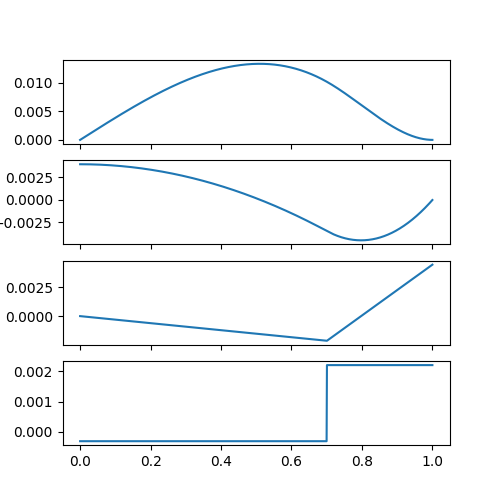
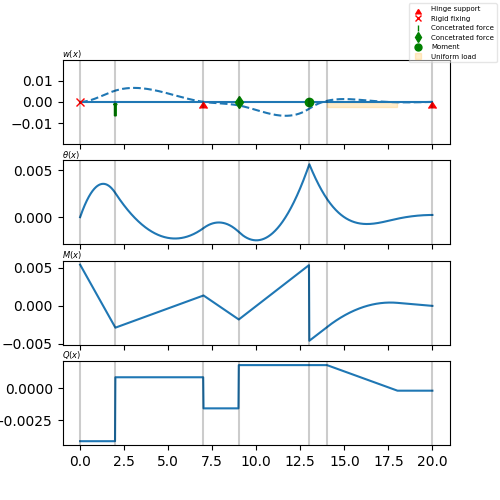
Make cool graphics and fix some bugs

diff --git a/scripts/graphics.py b/scripts/graphics.py
@@ -1,38 +1,117 @@
 import matplotlib.pyplot as plt
+import matplotlib.lines as mlines
 import numpy as np
 import sys
 
 
-def show():
+def make_markers(axe, terms, y, balk_size):
+    for term in terms:
+        if term[0] == "R":
+            axe.plot(term[1], 0, marker=6, color='red')
+        elif term[0] == "Z":
+            axe.plot(term[1], 0, marker="x", color='red')
+        elif term[0] == "P":
+            sign = 1 if term[2] > 0 else -1
+            length = (np.max(y) - np.min(y)) / 2
+            axe.arrow(term[1], length * (-sign), 0, length * sign, width=balk_size / 200,
+                      head_width=balk_size / 100, head_length=length/5, length_includes_head=True, color='green')
+        elif term[0] == "M":
+            axe.plot(term[1], 0, marker="o", color='green')
+        elif term[0] == "K":
+            axe.plot(term[1], 0, marker="d", color='green')
+        elif term[0] == "Q":
+            sign = 1 if term[3] > 0 else -1
+            axe.fill_between(np.array([term[1], term[2]]), np.ones(
+                shape=2) * (np.max(y) - np.min(y)) * sign / 5, 0, facecolor="orange", color='orange', alpha=0.2)
+
+
+def make_vertical_lines(axes, terms, balk_size):
+    for term in terms:
+        for axe in axes:
+            axe.axvline(term[1], c='k', alpha=0.1)
+
+
+def show(balk_size, segment_length, E, J, terms):
     with open("outputs/out1.txt", "r") as f1, \
             open("outputs/out2.txt", "r") as f2, \
             open("outputs/out3.txt", "r") as f3, \
             open("outputs/out4.txt", "r") as f4:
         fig, axe = plt.subplots(4, 1, sharex=True, figsize=(5, 5))
-
         y = []
         for num in f1:
             y.append(float(num))
-        axe[0].plot(np.linspace(0, 1, len(y)), np.array(y))
+        axe[0].margins(y=1)
+        axe[0].plot(np.linspace(0, balk_size, len(y)),
+                    np.array(y), linestyle="--")
+        axe[0].plot(np.linspace(0, balk_size, len(y)),
+                    np.zeros(shape=len(y)), color='C0')
+        make_markers(axe[0], terms, y, balk_size)
+        axe[0].set_title(r"$w(x)$", size=6, loc="left", pad=2)
 
         y = []
         for num in f2:
             y.append(float(num))
-        axe[1].plot(np.linspace(0, 1, len(y)), np.array(y))
+        axe[1].plot(np.linspace(0, balk_size, len(y)), np.array(y))
+        axe[1].set_title(r"$\theta(x)$", size=6, loc="left", pad=2)
 
         y = []
         for num in f3:
             y.append(float(num))
-        axe[2].plot(np.linspace(0, 1, len(y)), np.array(y))
+        axe[2].plot(np.linspace(0, balk_size, len(y)), np.array(y))
+        axe[2].set_title(r"$M(x)$", size=6, loc="left", pad=2)
 
         y = []
         for num in f4:
             y.append(float(num))
-        axe[3].plot(np.linspace(0, 1, len(y)), np.array(y))
+        axe[3].plot(np.linspace(0, balk_size, len(y)), np.array(y))
+        axe[3].set_title(r"$Q(x)$", size=6, loc="left", pad=2)
+
+        make_vertical_lines(axe, terms, balk_size)
+        hinge_support = mlines.Line2D([], [], color='red', marker=6, linestyle='None',
+                                      markersize=5, label='Hinge support')
+        rigid_fixing = mlines.Line2D([], [], color='red', marker='x', linestyle='None',
+                                     markersize=5, label='Rigid fixing')
+        concetrated_force = mlines.Line2D([], [], color='green', marker='|', linestyle='None',
+                                          markersize=5, label='Concetrated force')
+        elastic_support = mlines.Line2D([], [], color='green', marker='d', linestyle='None',
+                                        markersize=5, label='Concetrated force')
+        moment = mlines.Line2D([], [], color='green', marker='o', linestyle='None',
+                               markersize=5, label='Moment')
+        uniform_load = mlines.Line2D([], [], color='orange', alpha=0.2, marker='s', linestyle='None',
+                                     markersize=5, label='Uniform load')
+        fig.legend(handles=[hinge_support, rigid_fixing, concetrated_force,
+                            elastic_support, moment, uniform_load], prop={'size': 5}, framealpha=0.5)
+
         plt.savefig("outputs/image.png")
         plt.show()
 
 
+def parse_file(file):
+    args = file.readline().split()
+
+    balk_size = int(args[0])
+    segment_length = float(args[1])
+    E = float(args[2])
+    J = float(args[3])
+
+    terms = []
+    for line in file:
+        term = line.split()
+        term[1] = int(term[1])
+        if term[0] in {"K", "P", "M"}:
+            term[2] = float(term[2])
+        elif term[0] in {"Q"}:
+            term[2] = int(term[2])
+            term[3] = float(term[3])
+        terms.append(term)
+
+    return balk_size, segment_length, E, J, terms
+
+
 if __name__ == "__main__":
-    # sys.argv[1]
-    show()
+    if len(sys.argv) < 2:
+        raise RuntimeError("write the input file")
+
+    input_file_name = sys.argv[1]
+    with open(input_file_name, "r") as file:
+        show(*parse_file(file))

diff --git a/src/forces_and_moments.cpp b/src/forces_and_moments.cpp
@@ -104,7 +104,7 @@ void ElasticSupport::addAnEquation(Balk &balk) const
         ++it;
     }
     assert(it != balk.getTerms().end());
-    balk.getA().back()[ind_in_A] -= 1 / (k * balk.getEJ());
+    balk.getA().back()[ind_in_A] += 1 / (k * balk.getEJ());
 }
 
 HardPinching::HardPinching(int shift, double segment_length)
@@ -155,7 +155,7 @@ double Moment::calculate(double x, int degree) const
     return calculatePolinomAtPoint(x - shift * segment_length, moment, 2 - degree);
 }
 
-UniformLoad::UniformLoad(int shift, double segment_lengths, double force)
+UniformLoad::UniformLoad(int shift, double segment_length, double force)
     : Term(shift, segment_length, false), force(force)
 {
 }

diff --git a/README.md b/README.md
@@ -35,10 +35,14 @@ Q - uniform load.
 #### A simple example:
 ##### input.txt file:
 ```txt
-10 1.0 100 200
-R 0
-Z 10
-P 7 50
+20 1.0 100.0 200.0
+Z 0
+R 7
+R 20
+M 13 -200.0
+P 2 100.0
+Q 14 18 -10.0
+K 9 0.0001
 ```
 Run the program:
 ```sh
